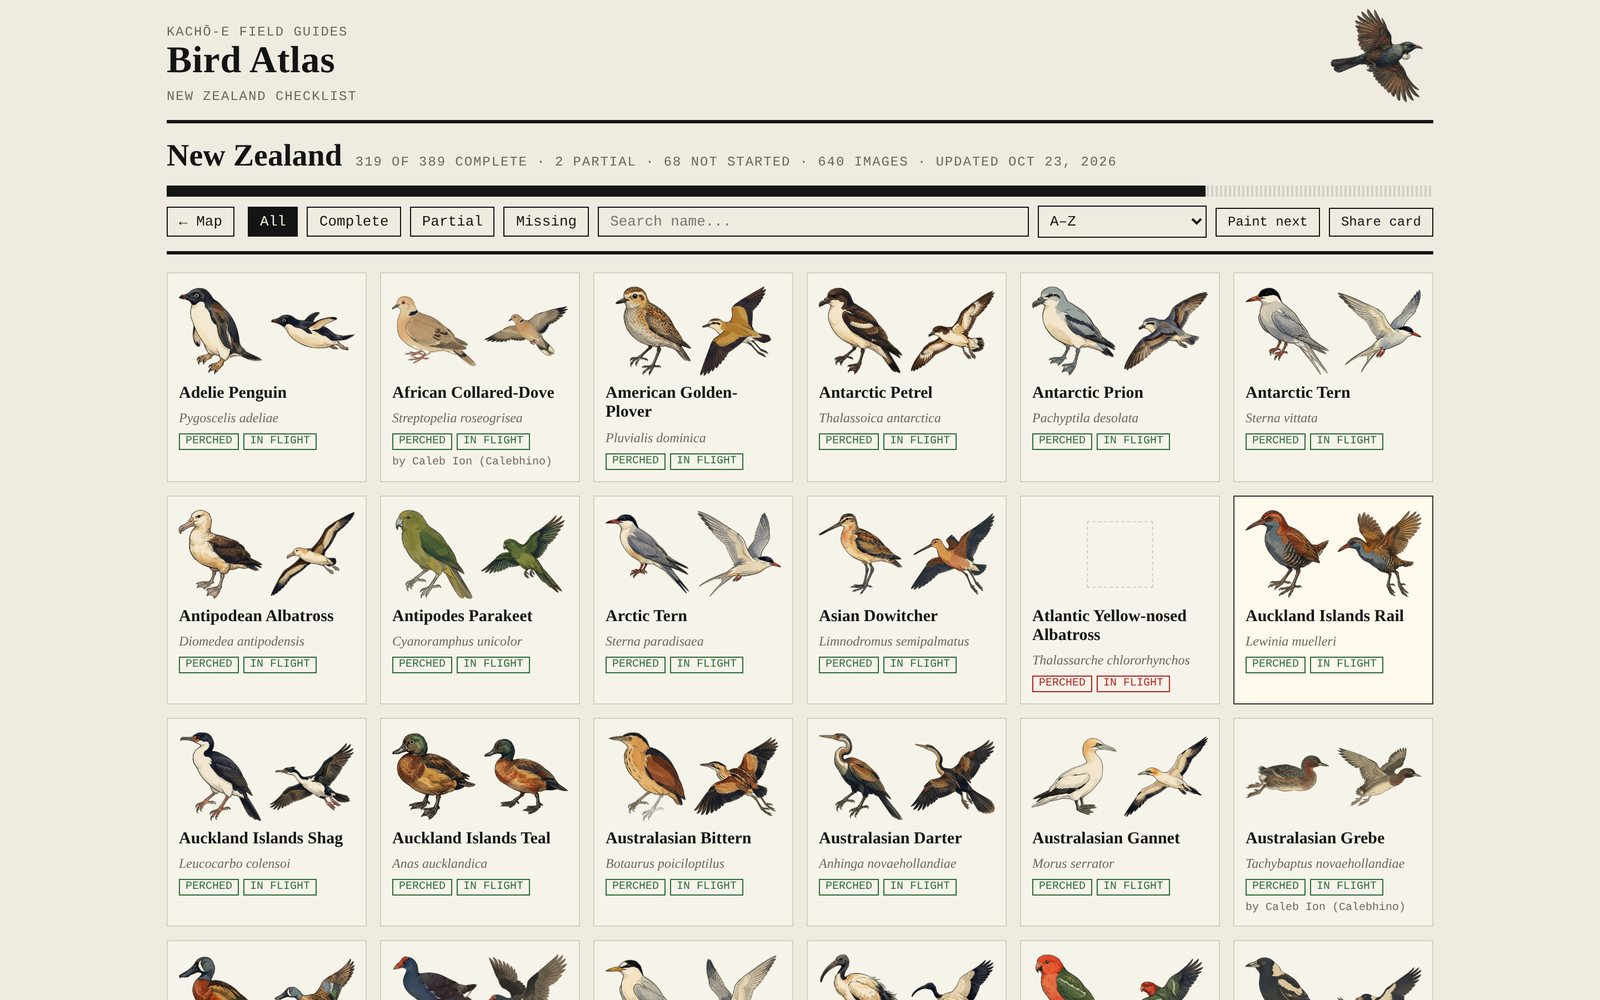
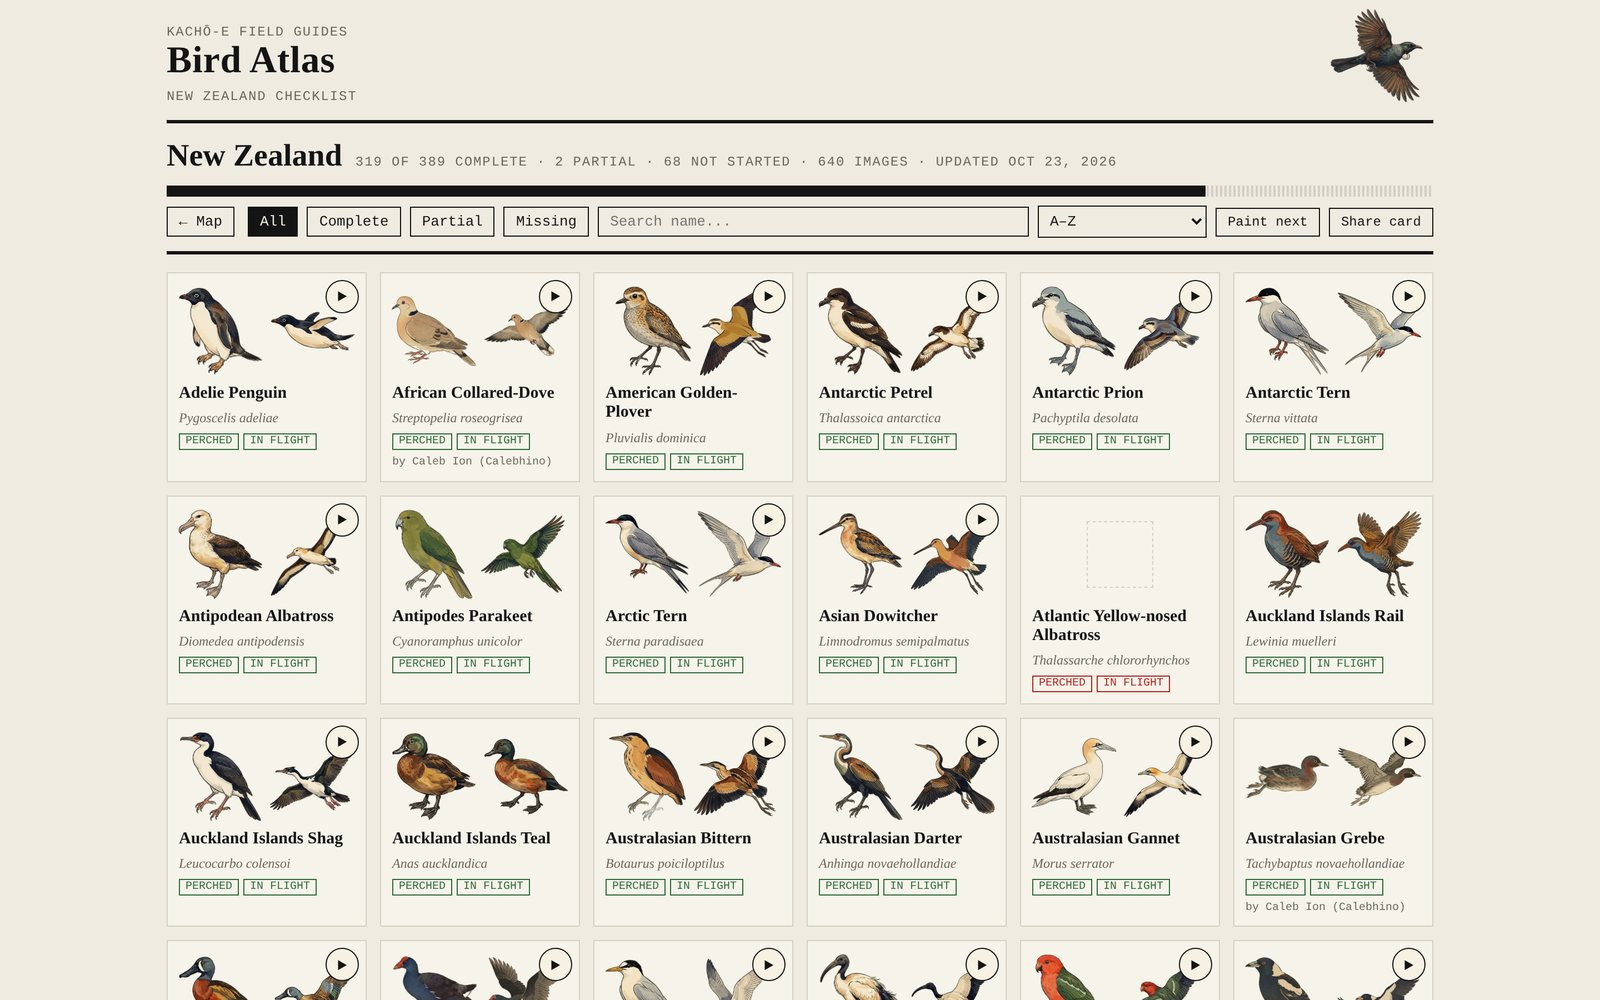
Screenshots with bird sounds; map hover label no longer clipped at the edge
Claude-Session: https://claude.ai/code/session_01LcizqkY3bGDNhEKatVPyUS

diff --git a/atlas.html b/atlas.html
@@ -29,7 +29,7 @@ header.top img.flier{position:absolute;right:8px;top:6px;height:88px;mix-blend-m
 .bird,.bird-shadow{pointer-events:none;opacity:0;transition:opacity .35s}
 .bird.up{opacity:1}.bird-shadow.up{opacity:var(--o,.2)}
 .bird{filter:drop-shadow(0 .5px 0 rgba(20,20,20,.25))}
-.tip{position:absolute;pointer-events:none;opacity:0;transition:opacity .15s;background:var(--paper2);border:1px solid var(--ink);
+.tip{position:absolute;pointer-events:none;white-space:nowrap;opacity:0;transition:opacity .15s;background:var(--paper2);border:1px solid var(--ink);
 padding:4px 8px;font:11px 'Courier New',monospace;color:var(--mute);white-space:nowrap;z-index:2;box-shadow:2px 2px 0 rgba(20,20,20,.2)}
 .tip b{display:block;font:700 14px Georgia,serif;color:var(--ink)}
 
@@ -634,11 +634,11 @@ async function drawMap() {
     if (ev.pointerType !== "mouse" || (drag && drag.moved)) return;   // no hover on touch, or while dragging
     clearTimeout(leaveT);
     const r = wrap.getBoundingClientRect();
-    const x = ev.clientX - r.left, y = ev.clientY - r.top, tw = tip.offsetWidth || 160;
-    tip.style.left = (x + 14 + tw > r.width ? x - 14 - tw : x + 14) + "px";
-    tip.style.top = (y + 70 > r.height ? y - 60 : y + 14) + "px";
     const t = ev.target;
-    setHover(t && (t.__f || t.__ocean) ? t : null);
+    setHover(t && (t.__f || t.__ocean) ? t : null);                  // set the text first, then measure it
+    const x = ev.clientX - r.left, y = ev.clientY - r.top, tw = tip.offsetWidth || 160;
+    tip.style.left = Math.max(4, x + 14 + tw > r.width - 4 ? x - 14 - tw : x + 14) + "px";
+    tip.style.top = (y + 70 > r.height ? y - 60 : y + 14) + "px";
   });
   svg.addEventListener("pointerleave", () => {
     setHover(null);
